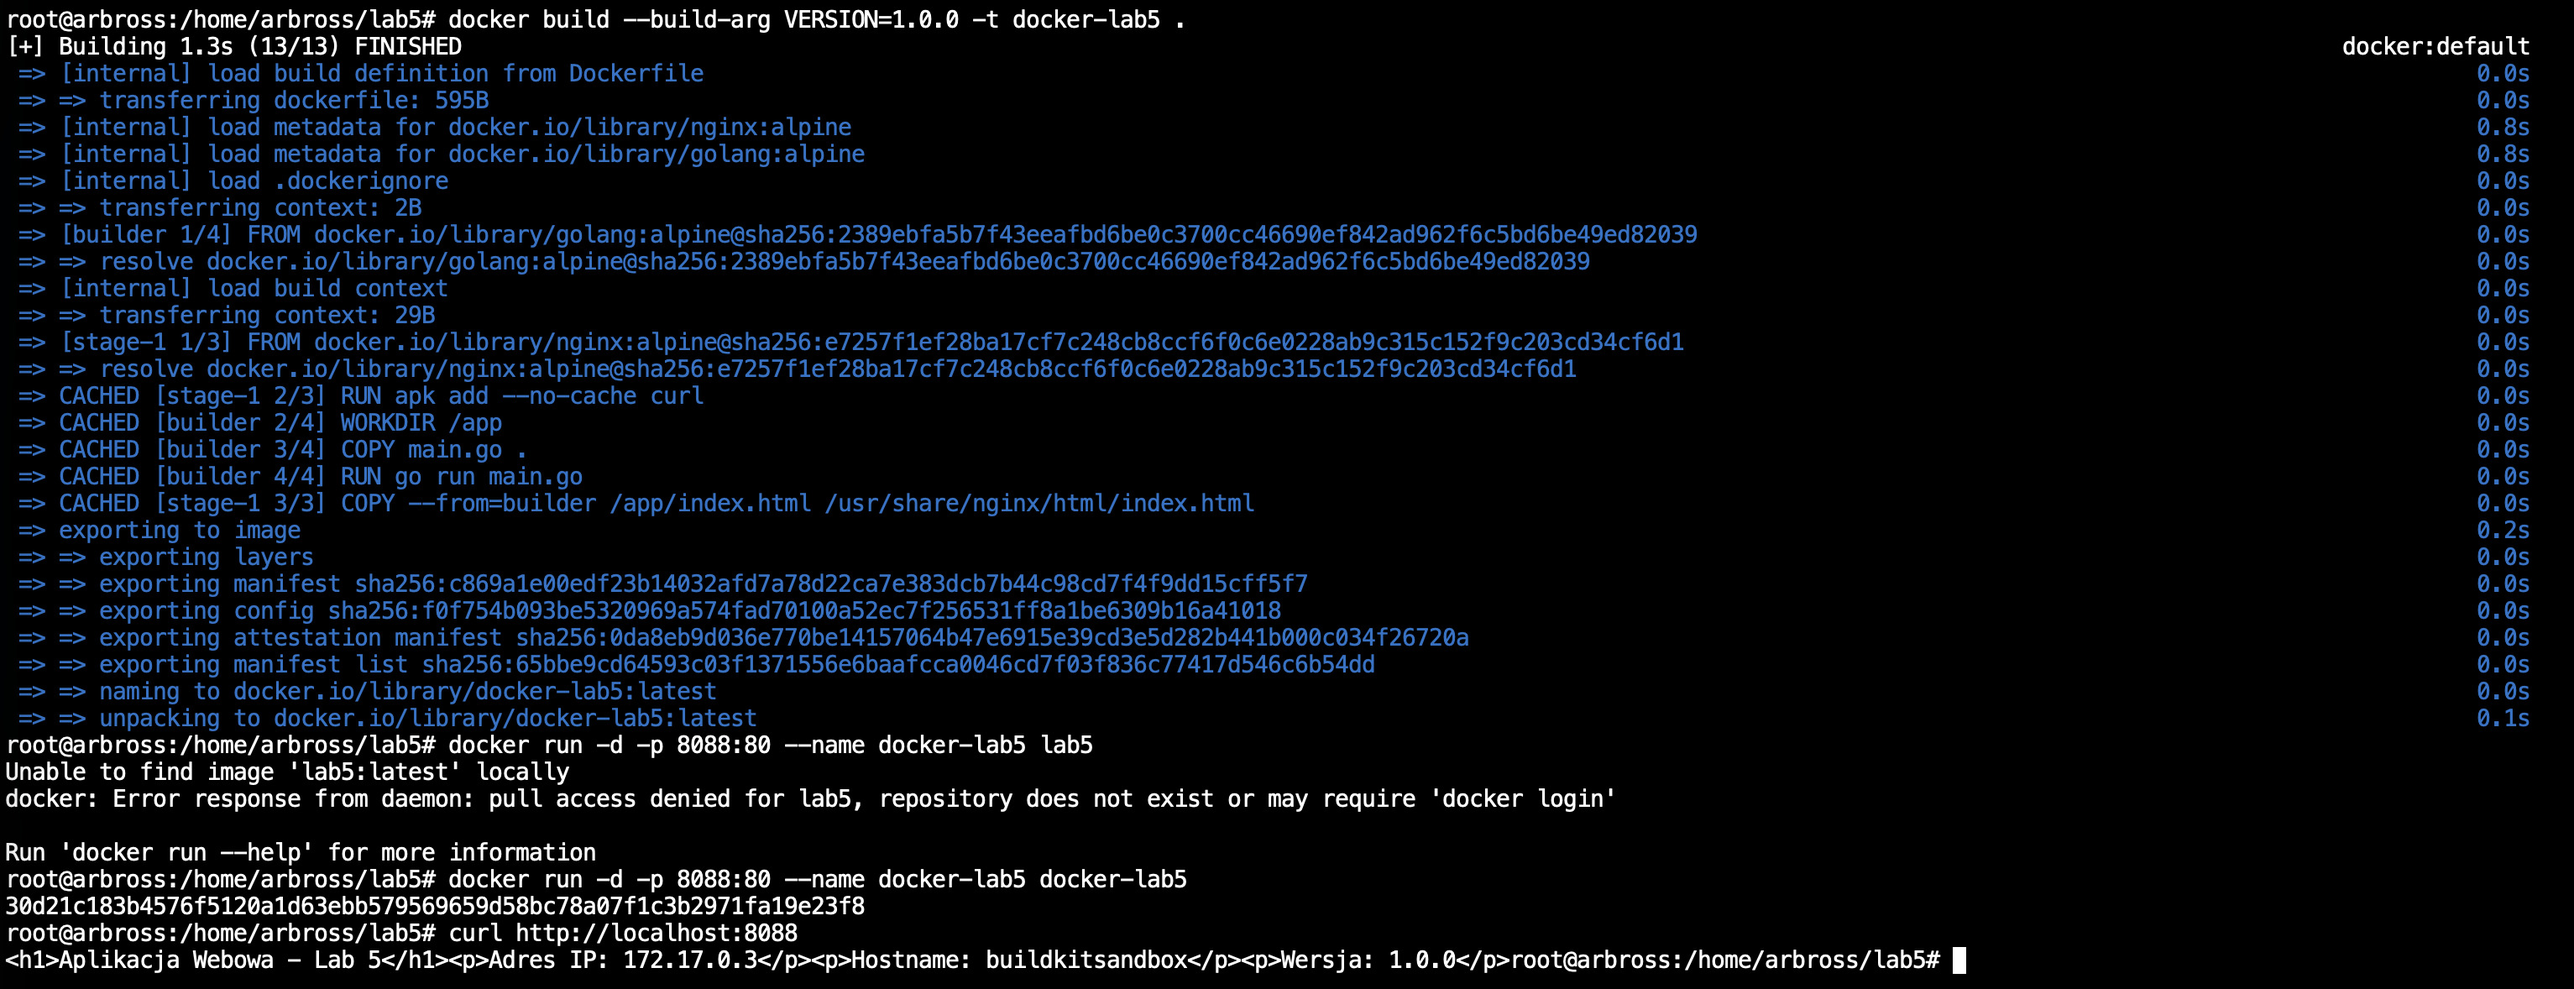
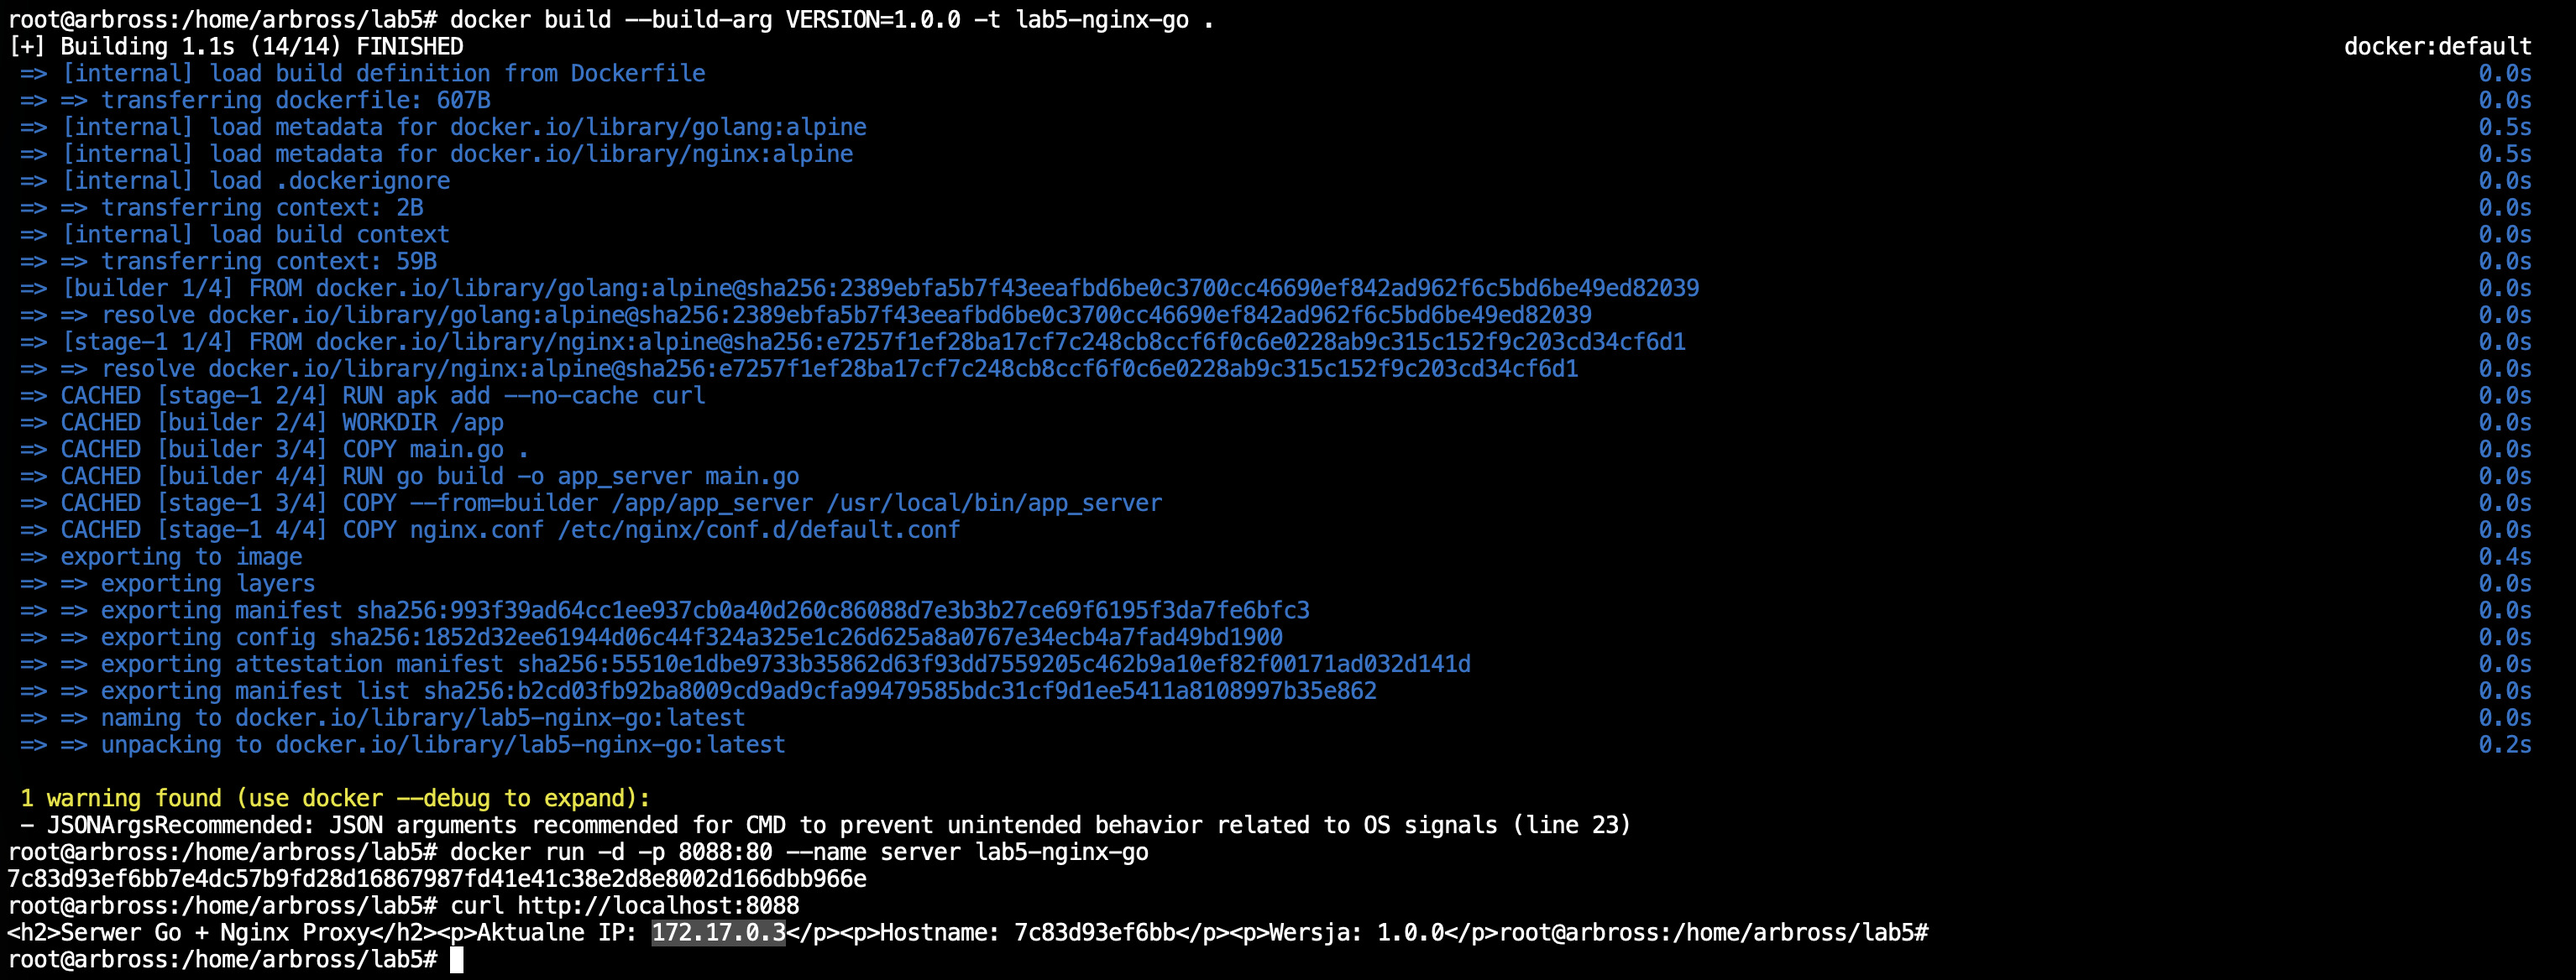
Lab 5 Reverse Proxy Added

Changed region(s): [[0.0, 0.0, 0.7746, 1.0], [0.9605, 0.0616, 0.9915, 0.7705], [0.9295, 0.0308, 0.9605, 0.0616]]

diff --git a/Lab 5/main.go b/Lab 5/main.go
@@ -1,25 +1,25 @@
 package main
 
-import ("fmt"; "net"; "os")
+import ("fmt"; "net"; "net/http"; "os")
 
 func main() {
-	version := os.Getenv("VERSION")
-	hostname, _ := os.Hostname()
-	ip := "Brak IP"
+	http.HandleFunc("/", func(w http.ResponseWriter, r *http.Request) {
+		version := os.Getenv("VERSION")
+		hostname, _ := os.Hostname()
 
-	// Pobranie lokalnego IP
-	addrs, _ := net.InterfaceAddrs()
-	for _, a := range addrs {
-		if ipnet, ok := a.(*net.IPNet); ok && !ipnet.IP.IsLoopback() && ipnet.IP.To4() != nil {
-			ip = ipnet.IP.String()
-			break
+		ip := "Brak IP"
+		addrs, _ := net.InterfaceAddrs()
+		for _, a := range addrs {
+			if ipnet, ok := a.(*net.IPNet); ok && !ipnet.IP.IsLoopback() && ipnet.IP.To4() != nil {
+				ip = ipnet.IP.String()
+				break
+			}
 		}
-	}
 
-	// Wygenerowanie pliku index.html
-	html := fmt.Sprintf(
-		"<h1>Aplikacja Webowa - Lab 5</h1><p>Adres IP: %s</p><p>Hostname: %s</p><p>Wersja: %s</p>",
-		ip, hostname, version,
-	)
-	os.WriteFile("index.html", []byte(html), 0644)
+		fmt.Fprintf(w, "<h2>Serwer Go + Nginx Proxy</h2><p>Aktualne IP: %s</p><p>Hostname: %s</p><p>Wersja: %s</p>", 
+			ip, hostname, version)
+	})
+
+	// Start serwera na porcie 8088
+	http.ListenAndServe(":8088", nil)
 }

diff --git a/Lab 5/README.md b/Lab 5/README.md
@@ -1,34 +1,37 @@
-## Laboratorium 5
-Aplikacja wykorzystuje język Go do generowania dynamicznych danych systemowych, które są następnie serwowane przez serwer Nginx.
+# Laboratorium 5
+W tym laboratorium wykonano zadanie z Reverse Proxy, gdzie serwer Nginx pośredniczy w komunikacji z aplikacją napisaną w języku Go.
 
-### Wymagania Projektowe
-Etap 1: Wykorzystanie obrazu bazowego z obsługą Go (na bazie Alpine) do wygenerowania pliku index.html.
+### Struktura projektu
+Etap 1: Wykorzystanie obrazu bazowego z obsługą Go (Alpine) do skompilowania kodu źródłowego serwera aplikacji.
 
-Dane: Pobranie adresu IP, nazwy hosta (hostname) oraz wersji aplikacji przekazanej przez ARG.
+Etap 2: Wykorzystanie obrazu Nginx jako serwera pośredniczącego (Reverse Proxy).
 
-Etap 2: Wykorzystanie obrazu Nginx do serwowania wygenerowanej strony.
+Dane: Dynamiczne pobieranie adresu IP, nazwy hosta (hostname) oraz wersji aplikacji przy każdym zapytaniu HTTP.
 
-Healthcheck: Implementacja mechanizmu sprawdzania poprawności działania kontenera.
+Healthcheck: Implementacja mechanizmu sprawdzania poprawności działania kontenera przy użyciu narzędzia curl.
 
-## Instrukcja Uruchomienia
+### Reverse Proxy
+Adres 172.17.0.1 to zazwyczaj brama sieci Docker. Adres 172.17.0.2 to zazwyczaj pierwszy uruchomiony kontener w danej sieci, natomiast adres 172.17.0.3 to aktualnie działający kontener. Wyświetlenie tego adresu potwierdza, że aplikacja Go poprawnie odczytuje interfejs sieciowy działającego kontenera, a Nginx prawidłowo przekazuje do niej ruch.
 
-### Budowanie obrazu
-Podczas budowy należy przekazać argument VERSION, aby zdefiniować wersję aplikacji:
+### Instrukcja Uruchomienia
+Budowanie obrazu
+Aby zbudować obraz i przekazać wersję aplikacji jako argument, należy wykonać:
 
- - docker build --build-arg VERSION=1.0.0 -t lab5-nginx-go .
- - docker run -d -p 8080:80 --name server lab5-nginx-go
+ - docker build --build-arg VERSION=1.5.0-proxy -t lab5-nginx-proxy .
+ - docker run -d -p 8080:80 --name moj-serwer-proxy lab5-nginx-proxy
 
-Weryfikacja: Poprawność działania można sprawdzić za pomocą komendy docker ps (status Health) lub bezpośrednio w przeglądarce:
+Po uruchomieniu można zweryfikować status kontenera oraz działanie usługi:
 
-Adres lokalny: http://localhost:8080
+ - docker ps
+ - curl http://localhost:8080
 
-### Struktura plików:
-
-- Dockerfile # Instrukcje budowania obrazu
-- main.go    # Skrypt generujący metadane w Go
-- README.md  # Dokumentacja (ten plik)
-- images/    # Folder z dokumentacją graficzną
+### Struktura plików
+ - Dockerfile # Instrukcje budowania obrazu
+ - main.go    # Serwer aplikacji w języku Go
+ - nginx.conf # Konfiguracja Nginx Reverse Proxy
+ - README.md  # Dokumentacja projektu
+ - images/    # Dokumentacja graficzna
     docker-setup.jpg
     dockerfile.jpg
     golang-script.jpg
-    web-link.jpg
+    nginx-conf.jpg
